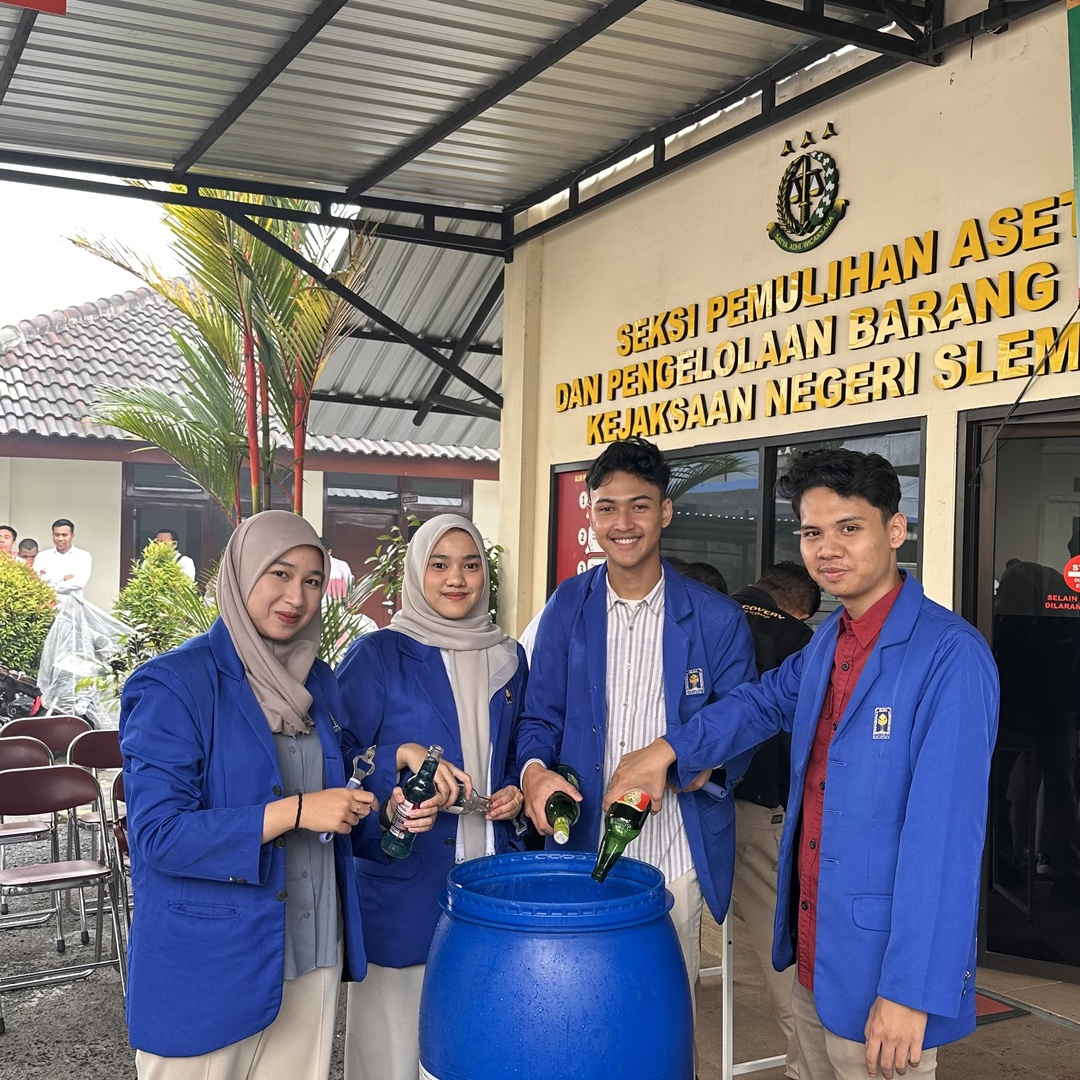
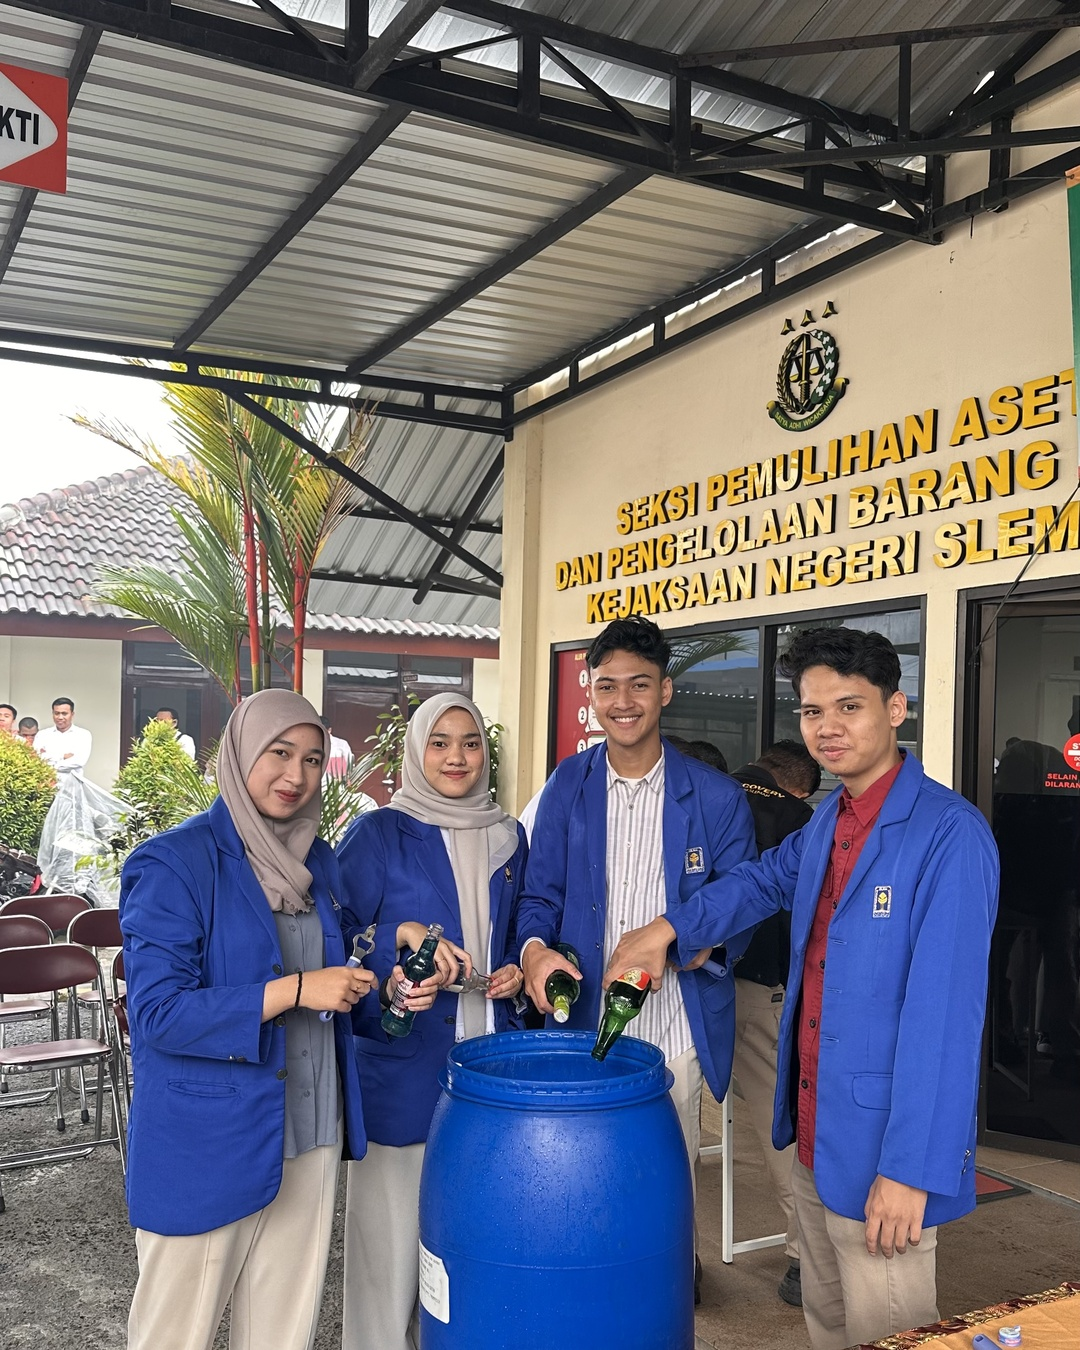
Organize collage into clean theme-grouped 2-row layout with uniform 4:5 ratio and institution badges

diff --git a/components/Sections.tsx b/components/Sections.tsx
@@ -1399,23 +1399,27 @@ export function TrainingsSection() {
     },
   ]
   // Helper untuk styling dinamis foto kolase sesuai kartu yang sedang disorot
-  const getPhotoWrapperClass = (photoOrgIds: number[]) => {
-    const isMatch = hoveredOrgId !== null && photoOrgIds.includes(hoveredOrgId)
+  const getPhotoWrapperClass = (targetOrgId: number) => {
+    const isMatch = hoveredOrgId === targetOrgId
     const isDimmed = hoveredOrgId !== null && !isMatch
     if (isMatch) {
-      return 'ring-2 ring-emerald-500 shadow-2xl scale-105 z-20 border-emerald-500/60 opacity-100'
+      return 'ring-2 ring-emerald-500 shadow-xl scale-[1.03] z-20 border-emerald-500/80 opacity-100'
     }
     if (isDimmed) {
-      return 'opacity-35 scale-[0.96] border-[var(--card-border)]/50'
+      return 'opacity-40 scale-[0.98] border-[var(--card-border)]/50'
     }
-    return 'opacity-90 scale-100 hover:opacity-100 hover:scale-105 border-[var(--card-border)] shadow-md'
+    return 'opacity-100 scale-100 hover:scale-[1.02] border-[var(--card-border)] shadow-sm'
   }
-  const getPhotoImageClass = (photoOrgIds: number[]) => {
-    const isMatch = hoveredOrgId !== null && photoOrgIds.includes(hoveredOrgId)
+  const getPhotoImageClass = (targetOrgId: number) => {
+    const isMatch = hoveredOrgId === targetOrgId
+    const isDimmed = hoveredOrgId !== null && !isMatch
     if (isMatch) {
-      return 'grayscale-0 brightness-105 contrast-105 scale-105'
+      return 'grayscale-0 brightness-105 contrast-105'
     }
-    return 'grayscale hover:grayscale-0'
+    if (isDimmed) {
+      return 'grayscale hover:grayscale-0'
+    }
+    return 'grayscale-0'
   }
   return (
     <section id="trainings" className="relative py-24 px-4 md:px-8 overflow-hidden font-sans">
@@ -1444,99 +1448,146 @@ export function TrainingsSection() {
         </div>
         {/* Content: Collage Grid (Left) + Organization Cards (Right) */}
         <div className="grid grid-cols-1 lg:grid-cols-12 gap-12 lg:gap-10 items-start">
-          {/* Left: Collage Grid (6 Photos connected to Organizations) */}
-          <div className="lg:col-span-5 grid grid-cols-3 gap-3 sm:gap-4 pr-0 lg:pr-4 sticky top-24 select-none">
-            {/* Kolom 1 */}
-            <div className="flex flex-col gap-3 sm:gap-4 -translate-y-4">
-              {/* Foto 1: Wisuda UII (orgId: 1) - klik untuk ganti foto */}
-              <div
-                onMouseEnter={() => setHoveredOrgId(1)}
-                onMouseLeave={() => setHoveredOrgId(null)}
-                onClick={() => setWisudaActiveIdx((prev) => (prev + 1) % wisudaPhotos.length)}
-                className={`w-full aspect-[4/5] bg-[var(--card-bg)] rounded-2xl overflow-hidden border transition-all duration-500 cursor-pointer relative group ${getPhotoWrapperClass([1])}`}
-                title="Klik untuk berganti foto wisuda"
-              >
-                <img
-                  src={wisudaPhotos[wisudaActiveIdx]}
-                  alt="Wisuda Sarjana Hukum UII"
-                  className={`w-full h-full object-cover transition-all duration-500 ${getPhotoImageClass([1])}`}
-                />
-                <div className="absolute top-2.5 right-2.5 px-2 py-0.5 rounded-full bg-black/65 backdrop-blur-md border border-white/20 text-white text-[9px] font-medium flex items-center gap-1 shadow-md pointer-events-none">
-                  <span>{wisudaActiveIdx + 1}/3</span>
-                  <span className="opacity-60">•</span>
-                  <span>Wisuda UII</span>
+          {/* Left: Collage Grid (6 Photos grouped cleanly by Theme) */}
+          <div className="lg:col-span-5 flex flex-col gap-5 sticky top-24 select-none font-sans">
+            {/* Baris 1: Tema Universitas Islam Indonesia (Kelulusan & Akademik) */}
+            <div
+              onMouseEnter={() => setHoveredOrgId(1)}
+              onMouseLeave={() => setHoveredOrgId(null)}
+              className={`p-3.5 rounded-3xl transition-all duration-300 border ${
+                hoveredOrgId === 1
+                  ? 'bg-emerald-500/5 border-emerald-500/30 shadow-md'
+                  : 'bg-[var(--card-bg)]/40 border-transparent'
+              }`}
+            >
+              <div className="flex items-center justify-between mb-2.5 px-1">
+                <span className="text-[11px] font-bold uppercase tracking-wider text-[var(--foreground)] flex items-center gap-2">
+                  <span
+                    className={`w-2 h-2 rounded-full transition-all duration-300 ${
+                      hoveredOrgId === 1 ? 'bg-emerald-500 scale-125 shadow-sm shadow-emerald-500' : 'bg-[var(--muted)]/50'
+                    }`}
+                  />
+                  Universitas Islam Indonesia
+                </span>
+                <span className="text-[10px] font-medium text-[var(--muted)]">Kelulusan & Akademik</span>
+              </div>
+              <div className="grid grid-cols-3 gap-2.5">
+                {/* Foto 1: Wisuda UII Gordon (klik untuk ganti foto) */}
+                <div
+                  onClick={() => setWisudaActiveIdx((prev) => (prev + 1) % wisudaPhotos.length)}
+                  className={`w-full aspect-[4/5] bg-[var(--card-bg)] rounded-2xl overflow-hidden border transition-all duration-500 cursor-pointer relative group ${getPhotoWrapperClass(1)}`}
+                  title="Klik untuk berganti foto wisuda"
+                >
+                  <img
+                    src={wisudaPhotos[wisudaActiveIdx]}
+                    alt="Wisuda Sarjana Hukum UII"
+                    className={`w-full h-full object-cover transition-all duration-500 ${getPhotoImageClass(1)}`}
+                  />
+                  <div className="absolute top-2 right-2 px-1.5 py-0.5 rounded-full bg-black/65 backdrop-blur-md border border-white/20 text-white text-[8px] font-medium flex items-center gap-1 shadow-md pointer-events-none">
+                    <span>{wisudaActiveIdx + 1}/3</span>
+                    <span className="opacity-60">•</span>
+                    <span>Wisuda</span>
+                  </div>
+                </div>
+
+                {/* Foto 2: Wisuda UII Jas & Dasi */}
+                <div
+                  className={`w-full aspect-[4/5] bg-[var(--card-bg)] rounded-2xl overflow-hidden border transition-all duration-500 cursor-pointer relative ${getPhotoWrapperClass(1)}`}
+                  title="Sarjana Hukum UII"
+                >
+                  <img
+                    src="/projects/wisuda-uii-suit.jpg"
+                    alt="Sarjana Hukum UII"
+                    className={`w-full h-full object-cover transition-all duration-500 ${getPhotoImageClass(1)}`}
+                  />
+                  <div className="absolute bottom-2 left-2 px-2 py-0.5 rounded-full bg-black/60 backdrop-blur-md border border-white/20 text-white text-[8px] font-medium shadow-md pointer-events-none">
+                    Sarjana Hukum
+                  </div>
+                </div>
+
+                {/* Foto 3: Kampus UII Tangga */}
+                <div
+                  className={`w-full aspect-[4/5] bg-[var(--card-bg)] rounded-2xl overflow-hidden border transition-all duration-500 cursor-pointer relative ${getPhotoWrapperClass(1)}`}
+                  title="Kampus UII"
+                >
+                  <img
+                    src="/projects/wisuda-uii-campus.jpg"
+                    alt="Kampus Universitas Islam Indonesia"
+                    className={`w-full h-full object-cover transition-all duration-500 ${getPhotoImageClass(1)}`}
+                  />
+                  <div className="absolute bottom-2 left-2 px-2 py-0.5 rounded-full bg-black/60 backdrop-blur-md border border-white/20 text-white text-[8px] font-medium shadow-md pointer-events-none">
+                    Kampus UII
+                  </div>
                 </div>
               </div>
-              {/* Foto 2: Wisuda UII Jas (orgId: 1) */}
-              <div
-                onMouseEnter={() => setHoveredOrgId(1)}
-                onMouseLeave={() => setHoveredOrgId(null)}
-                className={`w-full aspect-square bg-[var(--card-bg)] rounded-2xl overflow-hidden border transition-all duration-500 cursor-pointer ${getPhotoWrapperClass([1])}`}
-                title="Universitas Islam Indonesia"
-              >
-                <img
-                  src="/projects/wisuda-uii-suit.jpg"
-                  alt="Farel Rayhan Saputra - Sarjana Hukum UII"
-                  className={`w-full h-full object-cover transition-all duration-500 ${getPhotoImageClass([1])}`}
-                />
-              </div>
             </div>
-            {/* Kolom 2 */}
-            <div className="flex flex-col gap-3 sm:gap-4 translate-y-3">
-              {/* Foto 3: Magang Kejari Sleman (orgId: 2) */}
-              <div
-                onMouseEnter={() => setHoveredOrgId(2)}
-                onMouseLeave={() => setHoveredOrgId(null)}
-                className={`w-full aspect-square bg-[var(--card-bg)] rounded-2xl overflow-hidden border transition-all duration-500 cursor-pointer ${getPhotoWrapperClass([2])}`}
-                title="Kejaksaan Negeri Sleman"
-              >
-                <img
-                  src="/projects/org-sleman.jpg"
-                  alt="Kejaksaan Negeri Sleman"
-                  className={`w-full h-full object-cover transition-all duration-500 ${getPhotoImageClass([2])}`}
-                />
+
+            {/* Baris 2: Tema Magang di Tiga Lembaga (Sleman, Bank Indonesia, Banjarnegara) */}
+            <div
+              onMouseEnter={() => setHoveredOrgId(2)}
+              onMouseLeave={() => setHoveredOrgId(null)}
+              className={`p-3.5 rounded-3xl transition-all duration-300 border ${
+                hoveredOrgId === 2
+                  ? 'bg-emerald-500/5 border-emerald-500/30 shadow-md'
+                  : 'bg-[var(--card-bg)]/40 border-transparent'
+              }`}
+            >
+              <div className="flex items-center justify-between mb-2.5 px-1">
+                <span className="text-[11px] font-bold uppercase tracking-wider text-[var(--foreground)] flex items-center gap-2">
+                  <span
+                    className={`w-2 h-2 rounded-full transition-all duration-300 ${
+                      hoveredOrgId === 2 ? 'bg-emerald-500 scale-125 shadow-sm shadow-emerald-500' : 'bg-[var(--muted)]/50'
+                    }`}
+                  />
+                  Magang di Tiga Lembaga
+                </span>
+                <span className="text-[10px] font-medium text-[var(--muted)]">Sleman • BI • Banjarnegara</span>
               </div>
-              {/* Foto 4: Magang Bank Indonesia (orgId: 2) */}
-              <div
-                onMouseEnter={() => setHoveredOrgId(2)}
-                onMouseLeave={() => setHoveredOrgId(null)}
-                className={`w-full aspect-[4/5] bg-[var(--card-bg)] rounded-2xl overflow-hidden border transition-all duration-500 cursor-pointer ${getPhotoWrapperClass([2])}`}
-                title="Bank Indonesia"
-              >
-                <img
-                  src="/projects/org-bi.jpg"
-                  alt="Bank Indonesia"
-                  className={`w-full h-full object-cover transition-all duration-500 ${getPhotoImageClass([2])}`}
-                />
-              </div>
-            </div>
-            {/* Kolom 3 */}
-            <div className="flex flex-col gap-3 sm:gap-4 -translate-y-6">
-              {/* Foto 5: Magang Kejari Banjarnegara (orgId: 2) */}
-              <div
-                onMouseEnter={() => setHoveredOrgId(2)}
-                onMouseLeave={() => setHoveredOrgId(null)}
-                className={`w-full aspect-[4/5] bg-[var(--card-bg)] rounded-2xl overflow-hidden border transition-all duration-500 cursor-pointer ${getPhotoWrapperClass([2])}`}
-                title="Kejaksaan Negeri Banjarnegara"
-              >
-                <img
-                  src="/projects/org-banjarnegara.jpg"
-                  alt="Kejaksaan Negeri Banjarnegara"
-                  className={`w-full h-full object-cover transition-all duration-500 ${getPhotoImageClass([2])}`}
-                />
-              </div>
-              {/* Foto 6: Wisuda UII Kampus (orgId: 1) */}
-              <div
-                onMouseEnter={() => setHoveredOrgId(1)}
-                onMouseLeave={() => setHoveredOrgId(null)}
-                className={`w-full aspect-square bg-[var(--card-bg)] rounded-2xl overflow-hidden border transition-all duration-500 cursor-pointer ${getPhotoWrapperClass([1])}`}
-                title="Universitas Islam Indonesia"
-              >
-                <img
-                  src="/projects/wisuda-uii-campus.jpg"
-                  alt="Kampus Universitas Islam Indonesia"
-                  className={`w-full h-full object-cover transition-all duration-500 ${getPhotoImageClass([1])}`}
-                />
+              <div className="grid grid-cols-3 gap-2.5">
+                {/* Foto 4: Kejaksaan Negeri Sleman */}
+                <div
+                  className={`w-full aspect-[4/5] bg-[var(--card-bg)] rounded-2xl overflow-hidden border transition-all duration-500 cursor-pointer relative ${getPhotoWrapperClass(2)}`}
+                  title="Kejaksaan Negeri Sleman"
+                >
+                  <img
+                    src="/projects/org-sleman.jpg"
+                    alt="Kejaksaan Negeri Sleman"
+                    className={`w-full h-full object-cover transition-all duration-500 ${getPhotoImageClass(2)}`}
+                  />
+                  <div className="absolute bottom-2 left-2 px-2 py-0.5 rounded-full bg-black/60 backdrop-blur-md border border-white/20 text-white text-[8px] font-medium shadow-md pointer-events-none">
+                    Kejari Sleman
+                  </div>
+                </div>
+
+                {/* Foto 5: Bank Indonesia */}
+                <div
+                  className={`w-full aspect-[4/5] bg-[var(--card-bg)] rounded-2xl overflow-hidden border transition-all duration-500 cursor-pointer relative ${getPhotoWrapperClass(2)}`}
+                  title="Bank Indonesia"
+                >
+                  <img
+                    src="/projects/org-bi.jpg"
+                    alt="Bank Indonesia"
+                    className={`w-full h-full object-cover transition-all duration-500 ${getPhotoImageClass(2)}`}
+                  />
+                  <div className="absolute bottom-2 left-2 px-2 py-0.5 rounded-full bg-black/60 backdrop-blur-md border border-white/20 text-white text-[8px] font-medium shadow-md pointer-events-none">
+                    Bank Indonesia
+                  </div>
+                </div>
+
+                {/* Foto 6: Kejaksaan Negeri Banjarnegara */}
+                <div
+                  className={`w-full aspect-[4/5] bg-[var(--card-bg)] rounded-2xl overflow-hidden border transition-all duration-500 cursor-pointer relative ${getPhotoWrapperClass(2)}`}
+                  title="Kejaksaan Negeri Banjarnegara"
+                >
+                  <img
+                    src="/projects/org-banjarnegara.jpg"
+                    alt="Kejaksaan Negeri Banjarnegara"
+                    className={`w-full h-full object-cover transition-all duration-500 ${getPhotoImageClass(2)}`}
+                  />
+                  <div className="absolute bottom-2 left-2 px-2 py-0.5 rounded-full bg-black/60 backdrop-blur-md border border-white/20 text-white text-[8px] font-medium shadow-md pointer-events-none">
+                    Banjarnegara
+                  </div>
+                </div>
               </div>
             </div>
           </div>
